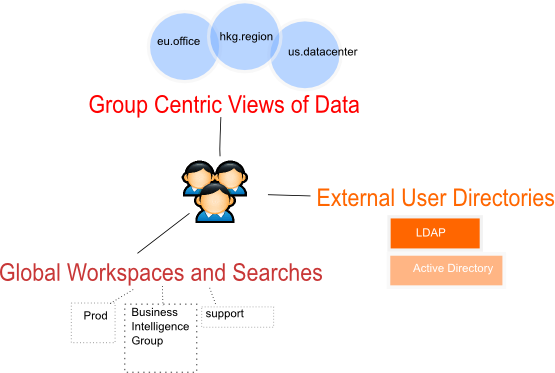
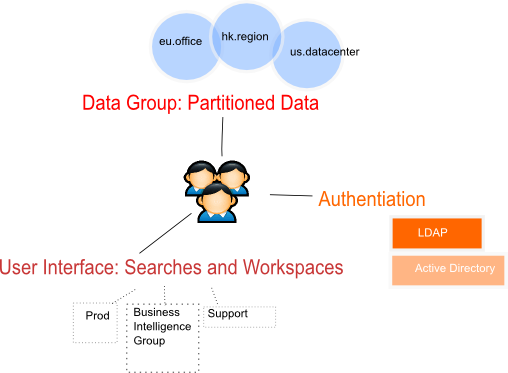
*update*

diff --git a/users.html b/users.html
@@ -115,7 +115,7 @@ $(window).load(function() {
  console.log("back:" + location);
  history.pushState({},"",location); 
  window.location.replace(query);
-}</script></head><body><img style="height:0;width:0" src="http://logscape.com/images/track.png?version=support"><div style="min-height:30px;margin-bottom:5px;" class="container-fluid navbar"><div style="height:5px" class="row"> </div><div class="row navbar-inner"><div style="width:10px" class="col-md-1"> </div><div class="col-md-11"><form id="cse-search-box" action="" style="position:right;padding-top:5px;padding-bottom:5px" onSubmit="submit_form()"><a href="/"><img src="images/logo.png" style="padding-top:0px,padding-right:15px" width="150"></a><input type="hidden" name="cx" value="partner-pub-2789521296837340:9402765321"><input type="hidden" name="ie" value="UTF-8"><input id="searchBox" type="text" name="q" size="31" style="margin-left:15px"><input id="cseSubmit" type="submit" value=" " class="btn-search">&nbsp;&nbsp;<a href="http://apps.logscape.com">Apps |  </a><a href="http://support.liquidlabs.co.uk">Release 1.3 | </a><a href="http://logscape.activeboard.com/">Forums </a></form></div></div></div><div class="container-fluid"><div class="row"><div class="col-md-2"></div><div class="col-md-5"><div id="widget-bc" padding-left:150px class="breadcrumbs style">&nbsp;</div></div><!--<p> <a href="">>> Home </a><a href=""> / Searches</a><a href=""> / Overlaying Searches </a></p>--></div><div class="row"><div style="width:10px" class="col-md-1"><p></p></div><div class="col-md-2 nav-padding"><ul class="nav nav-tabs nav-stacked"> <li><a href="searching.html">Search</a></li><li> <a href="workspaces.html">WorkSpaces</a></li><li> <a href="ds.html">Data Sources</a></li><li> <a href="types.html">Data Types </a></li><li>	<a href="deploy.html">Deployment </a></li><li>	<a href="users.html">Users </a></li><li> <a href="alerts.html">Alerts 	</a></li><li><a href="technology.html">Technology</a></li><li><a href="https://twitter.com/logscape" data-show-count="false" data-size="large" class="twitter-follow-button">Follow @logscape</a><script>=!function(d,s,id){var js,fjs=d.getElementsByTagName(s)[0],p=/^http:/.test(d.location)?'http':'https';if(!d.getElementById(id)){js=d.createElement(s);js.id=id;js.src=p+'://platform.twitter.com/widgets.js';fjs.parentNode.insertBefore(js,fjs);}}(document, 'script', 'twitter-wjs');</script></li></ul><div class="resource-list"><ul style="list-style:none;padding-left:0px"> <h4>Blog Feed</h4></ul></div></div><div class="col-md-9 content-area"> <div class="row"><div class="col-md-9"><h3>Users </h3><p>In Logscape you can create users and add them to a <a href="users-datagroups.html">data group. </a>A data group allows or restricts access to data stored in the system. A data group also provides a namespace for all searches and workspaces created by users of a group. This ensures that no other users can access a Workspace belonging to another group. </p><!--<p>User configuration in Logscaspe allows complex roles to be mapped on to users of the system. Users can be divided into different groups, each having a different view of the data being stored. This gives the administrator the power to use and reuse data in different ways across an organisation. </p>--><p> See the <a href="users-config.html">user config </a>page for more details. </p><ul><li> Data groups are <a href="users-config-datagroups.html">explained here </a></li><li> Check out an <a href="users-datagroups-example.html">an example </a>on how groups may be used for your users. </li></ul><div class="side-box"><h4>Useful Links  </h4><a href="users-config-users.html">User Setup </a><br><a href="users-config-datagroups.html">Data Groups </a><br><a href="users-ldap.html">Active Directory Integration </a></div><div style="padding:20px" class="image"> <center> <img src="images/users.png"></center></div><h4>Global and Group Workspaces</h4><p>When a user logs into the system they will redirected to the custom Home Workspace for their group. The custom Workspace is an overview a groups data that users can update with charts useful to their group. When a user edits a Workspace or Search it is saved in the groups namespace, e.g if a user belong to the Dev group the search.<em>System Health </em>will be saved as:<blockquote> dev.System Health </blockquote></p><p>All searches and workspaces from Logscape Apps or that come with the default installation are in the global namespace and can be seen by all users. </p><!--	<p>When a user logs into the system they will be able to see only the Searches and Workspaces that belong to their group. When a user edits a Workspace or a Search, it will be saved under the group they belong to. User from other groups can not see these searches unless they are the </p><em>admin </em>or the <em>sysadmin </em>account, which have global level rights in the system. --><div class="image"><center><img src="images/users-namespaces.png"></center></div><h4>Organizing Your Data </h4><br><br><p>A Data Group defines a user's access to data. With data groups the administrator has granular control over what data a user can see when they log into the system. Data groups are central to how users  access the system.  Learn how to <a href="http://127.0.0.1:8000/users-config-datagroups.html">configure a datagroup </a>and see how <a href="users-datagroups-nested.html">data modelling  </a>can help organise your data </p><div class="image"><center><img src="images/users-permissions.png"></center></div></div></div><div class="row"><div class="col-md-11"><br><br><br><div id="disqus_thread"><script>/* * * CONFIGURATION VARIABLES: EDIT BEFORE PASTING INTO YOUR WEBPAGE * * */
+}</script></head><body><img style="height:0;width:0" src="http://logscape.com/images/track.png?version=support"><div style="min-height:30px;margin-bottom:5px;" class="container-fluid navbar"><div style="height:5px" class="row"> </div><div class="row navbar-inner"><div style="width:10px" class="col-md-1"> </div><div class="col-md-11"><form id="cse-search-box" action="" style="position:right;padding-top:5px;padding-bottom:5px" onSubmit="submit_form()"><a href="/"><img src="images/logo.png" style="padding-top:0px,padding-right:15px" width="150"></a><input type="hidden" name="cx" value="partner-pub-2789521296837340:9402765321"><input type="hidden" name="ie" value="UTF-8"><input id="searchBox" type="text" name="q" size="31" style="margin-left:15px"><input id="cseSubmit" type="submit" value=" " class="btn-search">&nbsp;&nbsp;<a href="http://apps.logscape.com">Apps |  </a><a href="http://support.liquidlabs.co.uk">Release 1.3 | </a><a href="http://logscape.activeboard.com/">Forums </a></form></div></div></div><div class="container-fluid"><div class="row"><div class="col-md-2"></div><div class="col-md-5"><div id="widget-bc" padding-left:150px class="breadcrumbs style">&nbsp;</div></div><!--<p> <a href="">>> Home </a><a href=""> / Searches</a><a href=""> / Overlaying Searches </a></p>--></div><div class="row"><div style="width:10px" class="col-md-1"><p></p></div><div class="col-md-2 nav-padding"><ul class="nav nav-tabs nav-stacked"> <li><a href="searching.html">Search</a></li><li> <a href="workspaces.html">WorkSpaces</a></li><li> <a href="ds.html">Data Sources</a></li><li> <a href="types.html">Data Types </a></li><li>	<a href="deploy.html">Deployment </a></li><li>	<a href="users.html">Users </a></li><li> <a href="alerts.html">Alerts 	</a></li><li><a href="technology.html">Technology</a></li><li><a href="https://twitter.com/logscape" data-show-count="false" data-size="large" class="twitter-follow-button">Follow @logscape</a><script>=!function(d,s,id){var js,fjs=d.getElementsByTagName(s)[0],p=/^http:/.test(d.location)?'http':'https';if(!d.getElementById(id)){js=d.createElement(s);js.id=id;js.src=p+'://platform.twitter.com/widgets.js';fjs.parentNode.insertBefore(js,fjs);}}(document, 'script', 'twitter-wjs');</script></li></ul><div class="resource-list"><ul style="list-style:none;padding-left:0px"> <h4>Blog Feed</h4></ul></div></div><div class="col-md-9 content-area"> <div class="row"><div class="col-md-9"><h3>Users </h3><p>Logscape supports users with the following features </p><ul><li>Authentication - External (LDAP or Active Directory) or Logscape Internal </li><li>Data Groups - Partitioned views of data  </li><li>Namespaced Searches and Workspaces - Store searches and workspaces within a shared group (namespace).</li></ul><div class="side-box"><h4>Useful Links  </h4><a href="users-config-users.html">User Setup </a><br><a href="users-config-datagroups.html">Data Groups </a><br><a href="users-ldap.html">Active Directory Integration </a></div><div style="padding:20px" class="image"> <center> <img src="images/users.png"></center></div><!--<p>User configuration in Logscape allows complex roles to be mapped on to users of the system. Users can be divided into different groups, each having a different view of the data being stored. This gives the administrator the power to use and reuse data in different ways across an organisation. </p>--><p> See the <a href="users-config.html">user config </a>page for more details. </p><ul><li> Data groups are <a href="users-config-datagroups.html">explained here </a></li><li> Check out an <a href="users-datagroups-example.html">an example </a>on how groups may be used for your users. </li></ul><h3>Authentication </h3><p>Set up users from Active Directory or use Logscape internal authentication </p><h3>Data Group: Partitioned Data </h3><p>A <a href="users-datagroups.html">data group </a>defines a user's access to data. A data group is comprised of a set of include and exclude <a href="ds-tags.html">tags </a>which refer to <a href="ds-add.html">data sources.  </a>With data groups the administrator has granular control over what data a user can see when they log into the system. Data groups are central to how users  access the system.  Learn how to <a href="http://127.0.0.1:8000/users-config-datagroups.html">configure a datagroup </a>and see how <a href="users-datagroups-nested.html">data modelling  </a>can help organise your data </p><p>See <a href="users-datagroups-example.html"> a real world example </a>of datagroups in action</p><div class="image"><center><img src="images/users-datagroups.png"><p><strong> Example: Screenshot of the data groups config page </strong></p></center></div><h3>User Interface: Searches and Workspaces (Sharing) </h3><p>Logscape will store a user's search or <a href="searching-workspaces.html">workspace </a> in their datagroup. Their searches and workspaces will be shared with other users in the same data group. The name of the search will be prefixed with the datagroup name when saved. Here's an example:<blockquote> dev.System Health </blockquote></p><p>	<strong>Global Sharing - </strong>Items saved without a prefix will be globally shared. Only an administrator can perform this operation. Apps by default are shared globally.  </p><p><strong>Custom Home Page - </strong>When a user logs into the system they will redirected to their group's Home Workspace. If one doesn't exist the system Home will be used.<blockquote> dev.Home </blockquote></p><p>	<strong>Visibility - </strong>Users can only see their groups items and globally shared items. All searches and workspaces from Logscape Apps or that come with the default installation are in the global namespace and can be seen by all users. </p><!--	--><div class="image"><center><img src="images/users-namespaces.png" width="600"></center></div><h3>Frequenty Asked Questions </h3><p><strong>Q:  How do I make a group's Workspace global? </strong></p><p>	<strong>A: </strong>As the administrator, remove the workspaces group prefix and save. </p><p> <strong>Q: How do I configure a workspace for different groups? </strong></p><p><strong>A: </strong>As the administrator workspaces would be put into a group by using the group's prefix in front of the workspace name. E.g <blockquote> ops.Cluster Health </blockquote></p><p><strong>A: </strong>As a regular user I can save a globally shared workspace which will automatically be prefixed with my group. My changes will then be available to all other members in my group.</p><p><strong>Q: How will workspaces from different groups appear to the admin or sysadmin?  </strong></p><p> <strong>A: </strong>Searches from other groups will appear be visible to the admin user with their group prefix. For example the Home pages from the dev and ops groups will be listed as <em>dev.Home </em><and> </and><em>ops.Home </em></p></div></div><div class="row"><div class="col-md-11"><br><br><br><div id="disqus_thread"><script>/* * * CONFIGURATION VARIABLES: EDIT BEFORE PASTING INTO YOUR WEBPAGE * * */
 var disqus_shortname = 'logscape'; // required: replace example with your forum shortname
 /* * * DON'T EDIT BELOW THIS LINE * * */
 (function() {

diff --git a/users-config-datagroups.html b/users-config-datagroups.html
@@ -115,7 +115,7 @@ $(window).load(function() {
  console.log("back:" + location);
  history.pushState({},"",location); 
  window.location.replace(query);
-}</script></head><body><img style="height:0;width:0" src="http://logscape.com/images/track.png?version=support"><div style="min-height:30px;margin-bottom:5px;" class="container-fluid navbar"><div style="height:5px" class="row"> </div><div class="row navbar-inner"><div style="width:10px" class="col-md-1"> </div><div class="col-md-11"><form id="cse-search-box" action="" style="position:right;padding-top:5px;padding-bottom:5px" onSubmit="submit_form()"><a href="/"><img src="images/logo.png" style="padding-top:0px,padding-right:15px" width="150"></a><input type="hidden" name="cx" value="partner-pub-2789521296837340:9402765321"><input type="hidden" name="ie" value="UTF-8"><input id="searchBox" type="text" name="q" size="31" style="margin-left:15px"><input id="cseSubmit" type="submit" value=" " class="btn-search">&nbsp;&nbsp;<a href="http://apps.logscape.com">Apps |  </a><a href="http://support.liquidlabs.co.uk">Release 1.3 | </a><a href="http://logscape.activeboard.com/">Forums </a></form></div></div></div><div class="container-fluid"><div class="row"><div class="col-md-2"></div><div class="col-md-5"><div id="widget-bc" padding-left:150px class="breadcrumbs style">&nbsp;</div></div><!--<p> <a href="">>> Home </a><a href=""> / Searches</a><a href=""> / Overlaying Searches </a></p>--></div><div class="row"><div style="width:10px" class="col-md-1"><p></p></div><div class="col-md-2 nav-padding"><ul class="nav nav-tabs nav-stacked"> <li><a href="searching.html">Search</a></li><li> <a href="workspaces.html">WorkSpaces</a></li><li> <a href="ds.html">Data Sources</a></li><li> <a href="types.html">Data Types </a></li><li>	<a href="deploy.html">Deployment </a></li><li>	<a href="users.html">Users </a></li><li> <a href="alerts.html">Alerts 	</a></li><li><a href="technology.html">Technology</a></li><li><a href="https://twitter.com/logscape" data-show-count="false" data-size="large" class="twitter-follow-button">Follow @logscape</a><script>=!function(d,s,id){var js,fjs=d.getElementsByTagName(s)[0],p=/^http:/.test(d.location)?'http':'https';if(!d.getElementById(id)){js=d.createElement(s);js.id=id;js.src=p+'://platform.twitter.com/widgets.js';fjs.parentNode.insertBefore(js,fjs);}}(document, 'script', 'twitter-wjs');</script></li></ul><div class="resource-list"><ul style="list-style:none;padding-left:0px"> <h4>Blog Feed</h4></ul></div></div><div class="col-md-9 content-area"> <div class="row"> <div class="col-md-11"><h3> Data Groups</h3><p>You can divide users into different data groups. Each data group defines a users access to workspaces, searches and data sources. Data groups improve the manageablility of multiple teams with varying levels of technical expertise. A typical example is environment divided into dev,support,uat groups. Support users are uninterested viewing the health of the system and system errors. Members of the <em>dev </em>team may be more interested in the performance and throughput metrics of running applications. </p></div></div><!--<div style="padding:20px" class="image"> <img src="images/users-groups.png" width="800"></div>--><div class="row panel-info"><div class="hr"> </div><div class="col-md-4"><h3>Datagroup Example </h3><p>Learn how to use datagroups to organise your data for different teams and departments </p><br><a href="users-datagroups-example.html">Data Groups in Action</a></div><div class="col-md-4"><h3>Configure  </h3><p>Data groups give the administrator the power to manage his/her users efficiently. </p><br><a href="users-datagrouyps.html">Enable Data Groups </a></div><div class="col-md-4"> <h3> Data Groups Hierachies </h3><p>Data Groups allow complex relationships to be built that model how users have access to your data. Data Groups have a hierarchical structure.</p><br><a href="users-datagroups-nested.html">Nested Groups</a></div></div><div class="row"> <div class="col-md-11"><h3>Overview </h3><h4>Data Groups </h4><br><br><p>A Data Group defines a user's access to data. With data groups the administrator has granular control over what data a user can see when they log into the system. Data groups are central to how users  access the system.  Learn how to <a href="http://127.0.0.1:8000/users-datagroups.html">configure a datagroup </a>and see how <a href="users-datagroups-nested.html">data modelling  </a>can help organise your data </p><div class="image"><center><img src="images/users-permissions.png"></center></div><h4>Grouping (Namespaces) </h4><p>Workspaces, Searches are organised in the system using namespaces. A data group defines which namespace a user's Searches and Workspaces will be saved to. Apps, system Workspaces all belong to the global namespace and every visible to all users. The sysadmin and admin accounts are superusers and grouping does not apply to them. </p><div class="image"><center><img src="images/users-namespaces.png"></center></div><h4>Editig Searches and Workspaces </h4><p>When a user logs into the system they will be able to see only the Searches and Workspaces that belong to their group. When a user edits a Workspace or a Search, it will be saved under the group they belong to. User from other groups can not see these searches unless they are the <em>admin </em>or the <em>sysadmin </em>account, which have global level rights in the system. </p><h4>Home Workspaces </h4><p>The Home Workspace is the default workspace when a user logs into the system. The global Home Workspace is loaded if a Home workspace does not exist in the groups namespace. To create a group-specific workspace, edit the Home workspace and then save it. Any search that is saved is automatically saved within the groups namespace. The next a user Logs in, they will see this workspace. </p></div></div><div class="row"><div class="col-md-11"><br><br><br><div id="disqus_thread"><script>/* * * CONFIGURATION VARIABLES: EDIT BEFORE PASTING INTO YOUR WEBPAGE * * */
+}</script></head><body><img style="height:0;width:0" src="http://logscape.com/images/track.png?version=support"><div style="min-height:30px;margin-bottom:5px;" class="container-fluid navbar"><div style="height:5px" class="row"> </div><div class="row navbar-inner"><div style="width:10px" class="col-md-1"> </div><div class="col-md-11"><form id="cse-search-box" action="" style="position:right;padding-top:5px;padding-bottom:5px" onSubmit="submit_form()"><a href="/"><img src="images/logo.png" style="padding-top:0px,padding-right:15px" width="150"></a><input type="hidden" name="cx" value="partner-pub-2789521296837340:9402765321"><input type="hidden" name="ie" value="UTF-8"><input id="searchBox" type="text" name="q" size="31" style="margin-left:15px"><input id="cseSubmit" type="submit" value=" " class="btn-search">&nbsp;&nbsp;<a href="http://apps.logscape.com">Apps |  </a><a href="http://support.liquidlabs.co.uk">Release 1.3 | </a><a href="http://logscape.activeboard.com/">Forums </a></form></div></div></div><div class="container-fluid"><div class="row"><div class="col-md-2"></div><div class="col-md-5"><div id="widget-bc" padding-left:150px class="breadcrumbs style">&nbsp;</div></div><!--<p> <a href="">>> Home </a><a href=""> / Searches</a><a href=""> / Overlaying Searches </a></p>--></div><div class="row"><div style="width:10px" class="col-md-1"><p></p></div><div class="col-md-2 nav-padding"><ul class="nav nav-tabs nav-stacked"> <li><a href="searching.html">Search</a></li><li> <a href="workspaces.html">WorkSpaces</a></li><li> <a href="ds.html">Data Sources</a></li><li> <a href="types.html">Data Types </a></li><li>	<a href="deploy.html">Deployment </a></li><li>	<a href="users.html">Users </a></li><li> <a href="alerts.html">Alerts 	</a></li><li><a href="technology.html">Technology</a></li><li><a href="https://twitter.com/logscape" data-show-count="false" data-size="large" class="twitter-follow-button">Follow @logscape</a><script>=!function(d,s,id){var js,fjs=d.getElementsByTagName(s)[0],p=/^http:/.test(d.location)?'http':'https';if(!d.getElementById(id)){js=d.createElement(s);js.id=id;js.src=p+'://platform.twitter.com/widgets.js';fjs.parentNode.insertBefore(js,fjs);}}(document, 'script', 'twitter-wjs');</script></li></ul><div class="resource-list"><ul style="list-style:none;padding-left:0px"> <h4>Blog Feed</h4></ul></div></div><div class="col-md-9 content-area"> <div class="row"> <div class="col-md-11"><h3> Data Groups</h3><p>You can divide users into different data groups. Each data group defines a users access to workspaces, searches and data sources. Data groups improve the manageablility of multiple teams with varying levels of technical expertise. A typical example is an environment divided into dev,support,uat groups. Support users are uninterested viewing the health of the system and system errors but the members of the <em>dev </em>team may be more interested in the performance and throughput metrics of running applications. Data groups give you a clean way of modelling user departments and teams within Logscape. </p></div></div><!--<div style="padding:20px" class="image"> <img src="images/users-groups.png" width="800"></div>--><div class="row panel-info"><div class="hr"> </div><div class="col-md-4"><h3>Datagroup Example </h3><p>Learn how to use datagroups to organise your data for different teams and departments </p><br><a href="users-datagroups-example.html">Data Groups in Action</a></div><div class="col-md-4"><h3>Configure  </h3><p>Data groups give the administrator the power to manage his/her users efficiently. </p><br><a href="users-datagroups.html">Enable Data Groups </a></div><div class="col-md-4"> <h3> Data Groups Hierarchies </h3><p>Data Groups allow complex relationships to be built that model how users have access to your data. Data Groups have a hierarchical structure.</p><br><a href="users-datagroups-nested.html">Nested Groups</a></div></div><div class="row"><div class="col-md-11"> <h4>Home Workspaces </h4><p>The Home Workspace is the default workspace when a user logs into the system. The global Home Workspace is loaded if a Home workspace does not exist in the groups namespace. To create a group-specific workspace, edit the Home workspace and then save it. Any search that is saved is automatically saved within the groups namespace. The next a user Logs in, they will see this workspace. </p></div></div><div class="row"><div class="col-md-11"><br><br><br><div id="disqus_thread"><script>/* * * CONFIGURATION VARIABLES: EDIT BEFORE PASTING INTO YOUR WEBPAGE * * */
 var disqus_shortname = 'logscape'; // required: replace example with your forum shortname
 /* * * DON'T EDIT BELOW THIS LINE * * */
 (function() {

diff --git a/users-datagroups.html b/users-datagroups.html
@@ -115,7 +115,7 @@ $(window).load(function() {
  console.log("back:" + location);
  history.pushState({},"",location); 
  window.location.replace(query);
-}</script></head><body><img style="height:0;width:0" src="http://logscape.com/images/track.png?version=support"><div style="min-height:30px;margin-bottom:5px;" class="container-fluid navbar"><div style="height:5px" class="row"> </div><div class="row navbar-inner"><div style="width:10px" class="col-md-1"> </div><div class="col-md-11"><form id="cse-search-box" action="" style="position:right;padding-top:5px;padding-bottom:5px" onSubmit="submit_form()"><a href="/"><img src="images/logo.png" style="padding-top:0px,padding-right:15px" width="150"></a><input type="hidden" name="cx" value="partner-pub-2789521296837340:9402765321"><input type="hidden" name="ie" value="UTF-8"><input id="searchBox" type="text" name="q" size="31" style="margin-left:15px"><input id="cseSubmit" type="submit" value=" " class="btn-search">&nbsp;&nbsp;<a href="http://apps.logscape.com">Apps |  </a><a href="http://support.liquidlabs.co.uk">Release 1.3 | </a><a href="http://logscape.activeboard.com/">Forums </a></form></div></div></div><div class="container-fluid"><div class="row"><div class="col-md-2"></div><div class="col-md-5"><div id="widget-bc" padding-left:150px class="breadcrumbs style">&nbsp;</div></div><!--<p> <a href="">>> Home </a><a href=""> / Searches</a><a href=""> / Overlaying Searches </a></p>--></div><div class="row"><div style="width:10px" class="col-md-1"><p></p></div><div class="col-md-2 nav-padding"><ul class="nav nav-tabs nav-stacked"> <li><a href="searching.html">Search</a></li><li> <a href="workspaces.html">WorkSpaces</a></li><li> <a href="ds.html">Data Sources</a></li><li> <a href="types.html">Data Types </a></li><li>	<a href="deploy.html">Deployment </a></li><li>	<a href="users.html">Users </a></li><li> <a href="alerts.html">Alerts 	</a></li><li><a href="technology.html">Technology</a></li><li><a href="https://twitter.com/logscape" data-show-count="false" data-size="large" class="twitter-follow-button">Follow @logscape</a><script>=!function(d,s,id){var js,fjs=d.getElementsByTagName(s)[0],p=/^http:/.test(d.location)?'http':'https';if(!d.getElementById(id)){js=d.createElement(s);js.id=id;js.src=p+'://platform.twitter.com/widgets.js';fjs.parentNode.insertBefore(js,fjs);}}(document, 'script', 'twitter-wjs');</script></li></ul><div class="resource-list"><ul style="list-style:none;padding-left:0px"> <h4>Blog Feed</h4></ul></div></div><div class="col-md-9 content-area"> <div class="row"><div class="col-md-9"><h3>Data Groups </h3><!--p A Data Group defines a user's access to data. A Data Group contains a list of data sources to include and exclude. --><p>Data Groups are used to organise access to your data and provide workspaces local to a group of users. A user belonging to a datagroup will have access to the data defined in that datagroup. Belonging to a data group also means that a user will see Searches and Workspaces in that data group. All user activity will be available only to users in that data group.  </p><p>Data groups allow data to be used and reused by different teams in different ways all from one tool. 	</p><p></p><div class="image"><img src="images/users-datagroups.png"></div><h4>Includes </h4><p>The includes option is a list of tags or datasource. It has the following syntax: </p><blockquote> tag:<em>DATASOURCE </em></blockquote><p>File mask can also be used here to</p><h4> Excludes </h4><p>Provide a list of tags to exclude. This follows the syntax of the includes options show above. File masks can be used to exclude files  too. An example is listed below where all password files are excluded. </p><blockquote>tag:pwd,passwords</blockquote><h4>Nested Groups </h4><p>Other Datagroups can be added to created child groups. The nested groups can be mapped to organisational structures like departments and teams, or geographical regions or data centers. Data groups can be used to model complex hierarchical relationships that reflect what makes sense in a particular deployment. In the option <em>children </em>provide a list of datagroups to be nested within the current datagroup.</p><blockquote>group:<em>DATAGROUP </em></blockquote><h4>Resource and Host  filters</h4><p>A datagroup can be restricted to a list of hosts or resources defined by a resourceGroup. The syntax to include data from a list of hosts is:</p><blockquote>hosts:HOSTA,HOSTB,....HOSTN</blockquote><p>The full hostname or a substring can be used to match hosts to be included. Resource filters can also be used.<blockquote>group:resourceGroup1,resourceGroup2</blockquote>This will match a list of resources defined by a resource query. Resource queres are explained on the <a href="deploy-agents.html">Agents </a>page. </p><h4>Datagroups Summary Table </h4><p>All the users in the system are list in the table below. The Adminsitrator can  </p><div class="image"><img src="images/users-datagroups-list.png"></div><h4>Enable/Disable Groups </h4><p>Groups can be enabled or disabled. </p></div></div><div class="row"><div class="col-md-11"><br><br><br><div id="disqus_thread"><script>/* * * CONFIGURATION VARIABLES: EDIT BEFORE PASTING INTO YOUR WEBPAGE * * */
+}</script></head><body><img style="height:0;width:0" src="http://logscape.com/images/track.png?version=support"><div style="min-height:30px;margin-bottom:5px;" class="container-fluid navbar"><div style="height:5px" class="row"> </div><div class="row navbar-inner"><div style="width:10px" class="col-md-1"> </div><div class="col-md-11"><form id="cse-search-box" action="" style="position:right;padding-top:5px;padding-bottom:5px" onSubmit="submit_form()"><a href="/"><img src="images/logo.png" style="padding-top:0px,padding-right:15px" width="150"></a><input type="hidden" name="cx" value="partner-pub-2789521296837340:9402765321"><input type="hidden" name="ie" value="UTF-8"><input id="searchBox" type="text" name="q" size="31" style="margin-left:15px"><input id="cseSubmit" type="submit" value=" " class="btn-search">&nbsp;&nbsp;<a href="http://apps.logscape.com">Apps |  </a><a href="http://support.liquidlabs.co.uk">Release 1.3 | </a><a href="http://logscape.activeboard.com/">Forums </a></form></div></div></div><div class="container-fluid"><div class="row"><div class="col-md-2"></div><div class="col-md-5"><div id="widget-bc" padding-left:150px class="breadcrumbs style">&nbsp;</div></div><!--<p> <a href="">>> Home </a><a href=""> / Searches</a><a href=""> / Overlaying Searches </a></p>--></div><div class="row"><div style="width:10px" class="col-md-1"><p></p></div><div class="col-md-2 nav-padding"><ul class="nav nav-tabs nav-stacked"> <li><a href="searching.html">Search</a></li><li> <a href="workspaces.html">WorkSpaces</a></li><li> <a href="ds.html">Data Sources</a></li><li> <a href="types.html">Data Types </a></li><li>	<a href="deploy.html">Deployment </a></li><li>	<a href="users.html">Users </a></li><li> <a href="alerts.html">Alerts 	</a></li><li><a href="technology.html">Technology</a></li><li><a href="https://twitter.com/logscape" data-show-count="false" data-size="large" class="twitter-follow-button">Follow @logscape</a><script>=!function(d,s,id){var js,fjs=d.getElementsByTagName(s)[0],p=/^http:/.test(d.location)?'http':'https';if(!d.getElementById(id)){js=d.createElement(s);js.id=id;js.src=p+'://platform.twitter.com/widgets.js';fjs.parentNode.insertBefore(js,fjs);}}(document, 'script', 'twitter-wjs');</script></li></ul><div class="resource-list"><ul style="list-style:none;padding-left:0px"> <h4>Blog Feed</h4></ul></div></div><div class="col-md-9 content-area"> <div class="row"><div class="col-md-9"><h3>Data Groups </h3><!--p A Data Group defines a user's access to data. A Data Group contains a list of data sources to include and exclude. --><p>Data Groups are used to organise access to your data and provide workspaces local to a group of users. A user belonging to a datagroup will have access to the data defined in that datagroup. Belonging to a data group also means that a user will see Searches and Workspaces in that data group. All user activity will be available only to users in that data group.  </p><p>Data groups allow data to be used and reused by different teams in different ways all from one tool. 	</p><p></p><div class="image"><img src="images/users-datagroups.png"></div><h4>Includes </h4><p>The includes option is a list of tags or datasource. It has the following syntax: </p><blockquote> tag:<em>DATASOURCE </em></blockquote><p>File mask can also be used here to</p><h4> Excludes </h4><p>Provide a list of tags to exclude. This follows the syntax of the includes options show above. File masks can be used to exclude files  too. An example is listed below where all password files are excluded. </p><blockquote>tag:pwd,passwords</blockquote><h4>Nested Groups </h4><p>Other Datagroups can be added to created child groups. The nested groups can be mapped to organisational structures like departments and teams, or geographical regions or data centers. Data groups can be used to model complex hierarchical relationships that reflect what makes sense in a particular deployment. In the option <em>children </em>provide a list of datagroups to be nested within the current datagroup.</p><blockquote>group:<em>DATAGROUP </em></blockquote><h4>Resource and Host  filters</h4><p>A datagroup can be restricted to a list of hosts or resources defined by a resourceGroup. The syntax to include data from a list of hosts is:</p><blockquote>hosts:HOSTA,HOSTB,....HOSTN</blockquote><p>The full hostname or a substring can be used to match hosts to be included. Resource filters can also be used.<blockquote>group:resourceGroup1,resourceGroup2</blockquote>This will match a list of resources defined by a resource query. Resource queries are explained on the <a href="deploy-agents.html">Agents </a>page. </p><h4>Datagroups Summary Table </h4><p>All the users in the system are list in the table below. The Administrator can  </p><div class="image"><img src="images/users-datagroups-list.png"></div><h4>Enable/Disable Groups </h4><p>Groups can be enabled or disabled. </p></div></div><div class="row"><div class="col-md-11"><br><br><br><div id="disqus_thread"><script>/* * * CONFIGURATION VARIABLES: EDIT BEFORE PASTING INTO YOUR WEBPAGE * * */
 var disqus_shortname = 'logscape'; // required: replace example with your forum shortname
 /* * * DON'T EDIT BELOW THIS LINE * * */
 (function() {

diff --git a/users-config.html b/users-config.html
@@ -115,7 +115,7 @@ $(window).load(function() {
  console.log("back:" + location);
  history.pushState({},"",location); 
  window.location.replace(query);
-}</script></head><body><img style="height:0;width:0" src="http://logscape.com/images/track.png?version=support"><div style="min-height:30px;margin-bottom:5px;" class="container-fluid navbar"><div style="height:5px" class="row"> </div><div class="row navbar-inner"><div style="width:10px" class="col-md-1"> </div><div class="col-md-11"><form id="cse-search-box" action="" style="position:right;padding-top:5px;padding-bottom:5px" onSubmit="submit_form()"><a href="/"><img src="images/logo.png" style="padding-top:0px,padding-right:15px" width="150"></a><input type="hidden" name="cx" value="partner-pub-2789521296837340:9402765321"><input type="hidden" name="ie" value="UTF-8"><input id="searchBox" type="text" name="q" size="31" style="margin-left:15px"><input id="cseSubmit" type="submit" value=" " class="btn-search">&nbsp;&nbsp;<a href="http://apps.logscape.com">Apps |  </a><a href="http://support.liquidlabs.co.uk">Release 1.3 | </a><a href="http://logscape.activeboard.com/">Forums </a></form></div></div></div><div class="container-fluid"><div class="row"><div class="col-md-2"></div><div class="col-md-5"><div id="widget-bc" padding-left:150px class="breadcrumbs style">&nbsp;</div></div><!--<p> <a href="">>> Home </a><a href=""> / Searches</a><a href=""> / Overlaying Searches </a></p>--></div><div class="row"><div style="width:10px" class="col-md-1"><p></p></div><div class="col-md-2 nav-padding"><ul class="nav nav-tabs nav-stacked"> <li><a href="searching.html">Search</a></li><li> <a href="workspaces.html">WorkSpaces</a></li><li> <a href="ds.html">Data Sources</a></li><li> <a href="types.html">Data Types </a></li><li>	<a href="deploy.html">Deployment </a></li><li>	<a href="users.html">Users </a></li><li> <a href="alerts.html">Alerts 	</a></li><li><a href="technology.html">Technology</a></li><li><a href="https://twitter.com/logscape" data-show-count="false" data-size="large" class="twitter-follow-button">Follow @logscape</a><script>=!function(d,s,id){var js,fjs=d.getElementsByTagName(s)[0],p=/^http:/.test(d.location)?'http':'https';if(!d.getElementById(id)){js=d.createElement(s);js.id=id;js.src=p+'://platform.twitter.com/widgets.js';fjs.parentNode.insertBefore(js,fjs);}}(document, 'script', 'twitter-wjs');</script></li></ul><div class="resource-list"><ul style="list-style:none;padding-left:0px"> <h4>Blog Feed</h4></ul></div></div><div class="col-md-9 content-area"> <div class="row"> <div class="col-md-11"><h3>Users </h3><p>Logscsape has the default users sysadmin and admin. The sysadmin user can see all the data in the system including Logscape's internal logs. This user is used for system administration tasks and debugging.  The admin user also has system administration permissions but can not see any of Logscape's internal logs. </p><ul> <li>	sysadmin </li><li> 	admin </li><li>	guest </li></ul><p>Read the <a href="users-config-users.html"> user documentation </a>to set up new users</p><p> </p><h3>Data Groups  - </h3><p>The Data Group field is optional, if left blank it will revert to all. The Permissions control what users can do regarding creating and deleting searches. If Configure is ticked the user will have administration privileges when using the system.  </p><ul><li>	all</li><li>	logscape-logs</li><li>	other </li></ul><p>Read the <a href="users-config-datagroups.html">data groups documentation </a>to understand how they affect user permissioning. </p><h3>Directory Services </h3><P>Users can be created within Logscape or imported from LDAP or Directory Services. </P><a href="ldap.html">Learn More </a></div></div><div class="row"><div class="col-md-11"><br><br><br><div id="disqus_thread"><script>/* * * CONFIGURATION VARIABLES: EDIT BEFORE PASTING INTO YOUR WEBPAGE * * */
+}</script></head><body><img style="height:0;width:0" src="http://logscape.com/images/track.png?version=support"><div style="min-height:30px;margin-bottom:5px;" class="container-fluid navbar"><div style="height:5px" class="row"> </div><div class="row navbar-inner"><div style="width:10px" class="col-md-1"> </div><div class="col-md-11"><form id="cse-search-box" action="" style="position:right;padding-top:5px;padding-bottom:5px" onSubmit="submit_form()"><a href="/"><img src="images/logo.png" style="padding-top:0px,padding-right:15px" width="150"></a><input type="hidden" name="cx" value="partner-pub-2789521296837340:9402765321"><input type="hidden" name="ie" value="UTF-8"><input id="searchBox" type="text" name="q" size="31" style="margin-left:15px"><input id="cseSubmit" type="submit" value=" " class="btn-search">&nbsp;&nbsp;<a href="http://apps.logscape.com">Apps |  </a><a href="http://support.liquidlabs.co.uk">Release 1.3 | </a><a href="http://logscape.activeboard.com/">Forums </a></form></div></div></div><div class="container-fluid"><div class="row"><div class="col-md-2"></div><div class="col-md-5"><div id="widget-bc" padding-left:150px class="breadcrumbs style">&nbsp;</div></div><!--<p> <a href="">>> Home </a><a href=""> / Searches</a><a href=""> / Overlaying Searches </a></p>--></div><div class="row"><div style="width:10px" class="col-md-1"><p></p></div><div class="col-md-2 nav-padding"><ul class="nav nav-tabs nav-stacked"> <li><a href="searching.html">Search</a></li><li> <a href="workspaces.html">WorkSpaces</a></li><li> <a href="ds.html">Data Sources</a></li><li> <a href="types.html">Data Types </a></li><li>	<a href="deploy.html">Deployment </a></li><li>	<a href="users.html">Users </a></li><li> <a href="alerts.html">Alerts 	</a></li><li><a href="technology.html">Technology</a></li><li><a href="https://twitter.com/logscape" data-show-count="false" data-size="large" class="twitter-follow-button">Follow @logscape</a><script>=!function(d,s,id){var js,fjs=d.getElementsByTagName(s)[0],p=/^http:/.test(d.location)?'http':'https';if(!d.getElementById(id)){js=d.createElement(s);js.id=id;js.src=p+'://platform.twitter.com/widgets.js';fjs.parentNode.insertBefore(js,fjs);}}(document, 'script', 'twitter-wjs');</script></li></ul><div class="resource-list"><ul style="list-style:none;padding-left:0px"> <h4>Blog Feed</h4></ul></div></div><div class="col-md-9 content-area"> <div class="row"> <div class="col-md-11"><h3>Users </h3><p>Logscape has the default users sysadmin and admin. The sysadmin user can see all the data in the system including Logscape's internal logs. This user is used for system administration tasks and debugging.  The admin user also has system administration permissions but can not see any of Logscape's internal logs. </p><ul> <li>	sysadmin </li><li> 	admin </li><li>	guest </li></ul><p>Read the <a href="users-config-users.html"> user documentation </a>to set up new users</p><p> </p><h3>Data Groups  - </h3><p>The Data Group field is optional, if left blank it will revert to all. The Permissions control what users can do regarding creating and deleting searches. If Configure is ticked the user will have administration privileges when using the system.  </p><ul><li>	all</li><li>	logscape-logs</li><li>	other </li></ul><p>Read the <a href="users-config-datagroups.html">data groups documentation </a>to understand how they affect user permissioning. </p><h3>Directory Services </h3><P>Users can be created within Logscape or imported from LDAP or Directory Services. </P><a href="ldap.html">Learn More </a></div></div><div class="row"><div class="col-md-11"><br><br><br><div id="disqus_thread"><script>/* * * CONFIGURATION VARIABLES: EDIT BEFORE PASTING INTO YOUR WEBPAGE * * */
 var disqus_shortname = 'logscape'; // required: replace example with your forum shortname
 /* * * DON'T EDIT BELOW THIS LINE * * */
 (function() {
